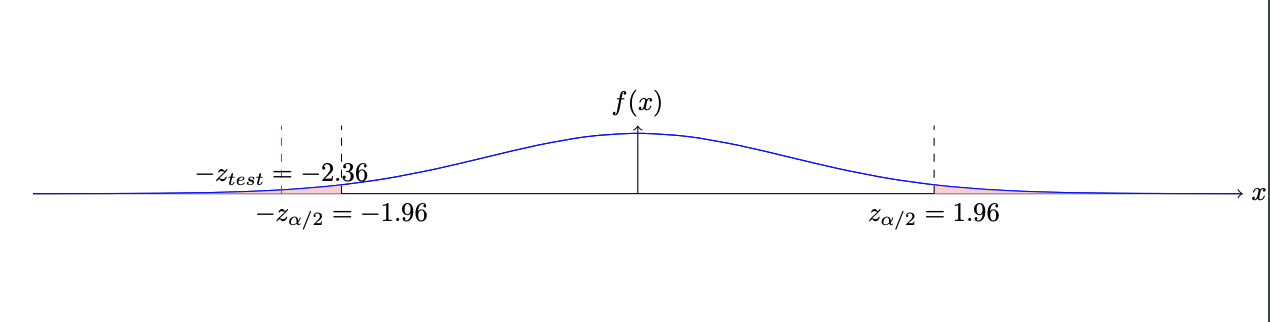
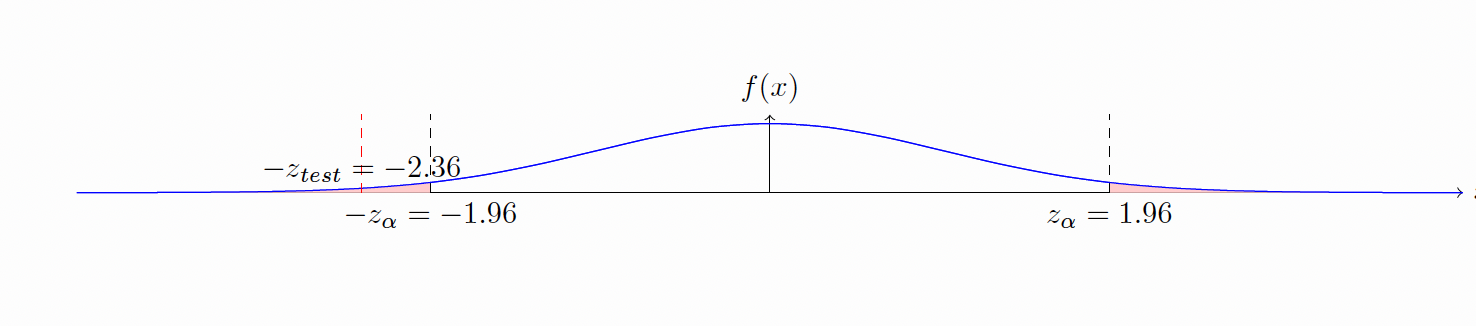
edit the file

Changed region(s): [[0.0307, 0.2174, 1.0, 0.7143], [0.3685, 0.4658, 0.3992, 0.4969], [0.3378, 0.4969, 0.3685, 0.528]]

diff --git a/docs/hypothesisSmean.html b/docs/hypothesisSmean.html
@@ -2511,22 +2511,20 @@ the rejection region are determined based on the sign of the alternative hypothe
 <li><p>First we need to formulate the decision rule. That is, when we reject <span class="math inline">\(H_0\)</span> and when we fail to reject <span class="math inline">\(H_0\)</span>.</p></li>
 </ul>
 <p>_ To formulate the decision rule, a good idea is to draw a graph and to specify the rejection region, as follows:</p>
-<p><img src="images/Normal_Rejection.png" alt="Normal and Rejection areas" />
-- From the above graph, we can see that we have two rejection regions. The cut-off (border) of the rejection region start at
-<<<<<<< HEAD
-<span class="math inline">\(Z_{\alpha/2}\)</span> <span class="math inline">\(= 1.96}\)</span> at the right side, and at <span class="math inline">\(- Z_{\alpha/2}\)</span> <span class="math inline">\(= - 1.96}\)</span> at the left side. That is, the rejection regions are the red areas.</p>
-=======
-<span class="math inline">\(Z_{\alpha} = 1.96}\)</span> at the right side, and at <span class="math inline">\(- Z_{\alpha} = - 1.96}\)</span> at the left side. That is, the rejection regions are the red areas.</p>
->>>>>>> d9dcd0677f2b7a276cc4b1b65603c2117850f75b
-<h3 id="greate-but-what-does-this-mean">Greate! But what does this mean?</h3>
-<h4 id="good-questions-here-is-the-answer">Good questions! Here is the answer:</h4>
+<figure>
+<img src="images/Normal_Rejection.png" alt="Normal and Rejection areas" />
+<figcaption aria-hidden="true">Normal and Rejection areas</figcaption>
+</figure>
 <ul>
-<li>(Simply) The rejection region is the area that if the <span class="math inline">\(Z\)</span>-statistics or <span class="math inline">\(Z\)</span>-test fall in, then we need to reject the null hypothesis.</li>
+<li>From the above graph, we can see that we have two rejection regions. The cut-off (border) of the rejection region start at
+<span class="math inline">\(Z_{\alpha/2}\)</span> <span class="math inline">\(= 1.96\)</span> at the right side, and at <span class="math inline">\(- Z_{\alpha/2}\)</span> <span class="math inline">\(= - 1.96\)</span> at the left side. That is, the rejection regions are the red areas.</li>
 </ul>
+<h3 id="greate-but-what-does-this-mean">Greate! But what does this mean?</h3>
+<p>(Simply) The rejection region is the area that if the <span class="math inline">\(Z\)</span>-statistics or <span class="math inline">\(Z\)</span>-test fall in, then we need to reject the null hypothesis.</p>
 <h3 id="great-what-next">Great! What next?</h3>
+<p>Now, we need to specify the decision rule. When we reject the <span class="math inline">\(H_0\)</span> and when fail to reject <span class="math inline">\(H_0\)</span> based on the rejection areas as follows:</p>
 <ul>
-<li><p>Now, we need to specify the decision rule. When we reject the <span class="math inline">\(H_0\)</span> and when fail to reject <span class="math inline">\(H_0\)</span> based on the rejection areas as follows:</p></li>
-<li><p><span class="math display">\[ If \ Z_{test} &gt; Z_{\alpha/2} = 1.96 \rightarrow \  Reject \ H_0\]</span></p></li>
+<li><span class="math display">\[ If \ Z_{test} &gt; Z_{\alpha/2} = 1.96 \rightarrow \  Reject \ H_0\]</span></li>
 </ul>
 <p>or</p>
 <ul>
@@ -2540,11 +2538,7 @@ the rejection region are determined based on the sign of the alternative hypothe
 then we need to reject the <span class="math inline">\(H_0\)</span>.</p></li>
 <li><p>Ok. But why? That is because it falls inside the rejection area!</p></li>
 <li><p>Ok. How about the left hand-side? The same situation. That is:</p></li>
-<<<<<<< HEAD
 <li><p><span class="math display">\[ If \ - Z_{test} &lt; - Z_{\alpha/2} = - 1.96 \rightarrow \  Reject \ H_0\]</span></p></li>
-=======
-<li><p><span class="math display">\[ If \ - Z_{test} &lt; - Z_{\alpha} = - 1.96 \rightarrow \  Reject \ H_0\]</span></p></li>
->>>>>>> d9dcd0677f2b7a276cc4b1b65603c2117850f75b
 </ul>
 <p>This part of the decision rule said that: If the value of the <span class="math inline">\(- Z_{test}\)</span> smaller than the left border of the rejection area,
 then we need to reject the <span class="math inline">\(H_0\)</span>. Because it falls inside the rejection area.</p>
@@ -2552,21 +2546,14 @@ then we need to reject the <span class="math inline">\(H_0\)</span>. Because it 
 <p>The graph shows the value of the <span class="math inline">\(- Z_{test} = -2.36\)</span>. From the graph, the <span class="math inline">\(- Z_{test} = -2.36\)</span> falls inside the left
 rejection area.</p>
 <h3 id="ok.-what-does-this-means">Ok. What does this means?</h3>
-<<<<<<< HEAD
 <p>As explained above, it means that the <span class="math inline">\(- Z_{test} = -2.36\)</span> is smaller than the <span class="math inline">\(- Z_{\alpha/2} = -1.96\)</span>. In other words, the <span class="math inline">\(- Z_{test}\)</span> is inside the
-=======
-<p>As explained above, it means that the <span class="math inline">\(- Z_{test} = -2.36\)</span> is smaller than the <span class="math inline">\(- Z_{\alpha} = -1.96\)</span>. In other words, the <span class="math inline">\(- Z_{test}\)</span> is inside the
->>>>>>> d9dcd0677f2b7a276cc4b1b65603c2117850f75b
 rejection region. Hence, based on the decision rule, we need to reject <span class="math inline">\(H_0\)</span>.</p>
 <figure>
 <img src="images/final_Sou.Nor.png" alt="Normal" />
 <figcaption aria-hidden="true">Normal</figcaption>
 </figure>
 <h3 id="conclusion">Conclusion</h3>
-<ul>
-<li>Because the <span class="math inline">\(Z_{test} = -2.36\)</span> is smaller than the <span class="math inline">\(Z_{\alpha/2}= -1.96\)</span>, and hence falls in the rejection region, we reject <span class="math inline">\(H_0\)</span>, and conclude that, the population mean is not equal to <span class="math inline">\(200\)</span>.</li>
-</ul>
-<h2 id="how-to-do-it-using-statcrunch">How to do it using Statcrunch</h2>
+<p>Because the <span class="math inline">\(Z_{test} = -2.36\)</span> is smaller than the <span class="math inline">\(Z_{\alpha/2}= -1.96\)</span>, and hence falls in the rejection region, we reject <span class="math inline">\(H_0\)</span>, and conclude that, the population mean is not equal to <span class="math inline">\(200\)</span>. Because we reject <span class="math inline">\(H_0\)</span>.</p>
 <div class="sourceCode" id="cb1"><pre class="sourceCode r distill-force-highlighting-css"><code class="sourceCode r"></code></pre></div>
 <!--radix_placeholder_article_footer-->
 <!--/radix_placeholder_article_footer-->
